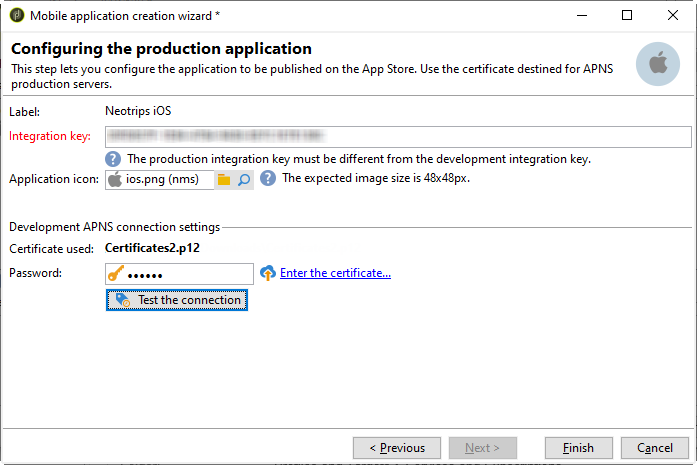
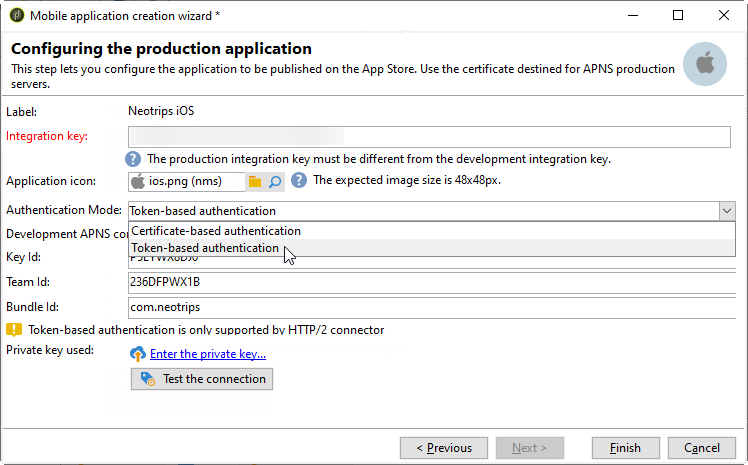
review

diff --git a/help/delivery/using/configuring-the-mobile-application-android.md b/help/delivery/using/configuring-the-mobile-application-android.md
@@ -96,6 +96,16 @@ To choose which connector you want to use, follow these steps:
 
    ![](assets/nmac_service_2.png)
 
+1. Create your Android application. For more on this, refer to this [section](../../delivery/using/configuring-the-mobile-application-android.md#creating-android-app).
+
+## Creating Android mobile application {#creating-android-app}
+
+After creating your service, you now need to create your Android application:
+
+1. From your newly created service, click the **[!UICONTROL Add]** button to select the application type.
+
+   ![](assets/nmac_service_2.png)
+
 1. Select **[!UICONTROL Create an Android application]** and enter a **[!UICONTROL Label]**.
 
    ![](assets/nmac_android.png)
@@ -106,11 +116,11 @@ To choose which connector you want to use, follow these steps:
     >
     > The **[!UICONTROL Integration key]** is fully customizable with string value but needs to be exactly the same as the one specified in the SDK.
 
-1. Select one of the out-of-the-box icon from the **[!UICONTROL Application icon]** field to personalize mobile application in your service.
+1. Select one of the **[!UICONTROL API version]**:
    * HTTP. For more information refer to this [section](../../delivery/using/configuring-the-mobile-application-android.md#android-service-http).
    * HTTPV1. For more information refer to this [section](../../delivery/using/configuring-the-mobile-application-android.md#android-service-httpv1).
 
-1. Fill in the Firebase Cloud Messaging settings for the Android connection.
+1. Fill in the **[!UICONTROL Firebase Cloud Messaging settings for the Android connection]** fields.
 
 1. Click **[!UICONTROL Finish]** then **[!UICONTROL Save]**. Your Android application is now ready to be used in Campaign Classic.
 
@@ -133,8 +143,8 @@ By default, Adobe Campaign saves a key in the **[!UICONTROL User identifier]** (
 
 <br>
 
-After creating service and a new mobile application, you need to configure your mobile application depending on the chosen API version.
-For more information on service and mobile application creations, refer to this section.
+After creating a service and a new mobile application, you need to configure your mobile application depending on the chosen API version.
+For more information on service and mobile application creations, refer to this [section](../../delivery/using/configuring-the-mobile-application-android.md#configuring-android-service).
 
 1. In your **[!UICONTROL Mobile application creation wizard]** window, select **[!UICONTROL HTTP (legacy)]** in the **[!UICONTROL API version]** drop-down.
 
@@ -158,7 +168,7 @@ For more information on service and mobile application creations, refer to this 
 <br>
 <br>
 After creating service and a new mobile application, you need to configure your mobile application depending on the chosen API version.
-For more information on service and mobile application creations, refer to this section.
+For more information on service and mobile application creations, refer to this [section](../../delivery/using/configuring-the-mobile-application-android.md#configuring-android-service)
 
 1. In your **[!UICONTROL Mobile application creation wizard]** window, select HTTPV1 in the **[!UICONTROL API version]** drop-down.
 

diff --git a/help/delivery/using/configuring-the-mobile-application.md b/help/delivery/using/configuring-the-mobile-application.md
@@ -101,7 +101,7 @@ Your iOS connector is now configured. You can start creating your service.
 
 1. Create your iOS Development and Production applications. For more on this, refer to this [section](../../delivery/using/configuring-the-mobile-application.md#creating-ios-app).
 
-## Creating the iOS application {#creating-ios-app}
+## Creating iOS mobile application {#creating-ios-app}
 
 After creating your service, you now need to create your iOS application:
 
@@ -136,7 +136,7 @@ In the following example, we add **mediaURl** and **mediaExt** to create rich pu
 
 1. Select one of the out-of-the-box icon from the **[!UICONTROL Application icon]** field to personalize mobile application in your service.
 
-1. Select the **[!UICONTROL Authentication mode]**, you can always change your authentication mode later on in the **[!UICONTROL Certificate]** tab or your mobile application.
+1. Select the **[!UICONTROL Authentication mode]**. Note that you can always change your authentication mode later on in the **[!UICONTROL Certificate]** tab of your mobile application.
    * **[!UICONTROL Certificate-based authentication]**: Click **[!UICONTROL Enter the certificate...]**  then select your p12 key and enter the password that was provided by the mobile application developer.
    * **[!UICONTROL Token-based authentication]**: Fill in the connection settings **[!UICONTROL Key ID]**, **[!UICONTROL Team ID]** and **[!UICONTROL Bundle ID]** then select your p8 certificate by clicking **[!UICONTROL Enter the private key]**. For more on **[!UICONTROL Token-based authentication]**, refer to [Apple documentation](https://developer.apple.com/documentation/usernotifications/setting_up_a_remote_notification_server/establishing_a_token-based_connection_to_apnsToken-based).
 

diff --git a/help/rn/using/deprecated-features.md b/help/rn/using/deprecated-features.md
@@ -38,7 +38,7 @@ Customers are advised to review if they make use of the feature/capability in th
  <tbody> 
    <tr>
    <td><strong>Feature</strong></td>
-   <td><strong>Replacement</strong></td> 
+   <td><strong>Replacement</strong></td>
   </tr>
   <tr>
   <td>iOS legacy binary<br></td>
@@ -46,7 +46,7 @@ Customers are advised to review if they make use of the feature/capability in th
   <p> If you are using this connector, you need to adapt your implementation accordingly.
   <a href="https://helpx.adobe.com/campaign/kb/migrate-to-http2.html">Learn more</a></p>
   <p><em>Target removal date: 2021</em></p>
-  </td> 
+  </td>
  </tr>
    <tr>
   <td>SMS connectors<br></td>
